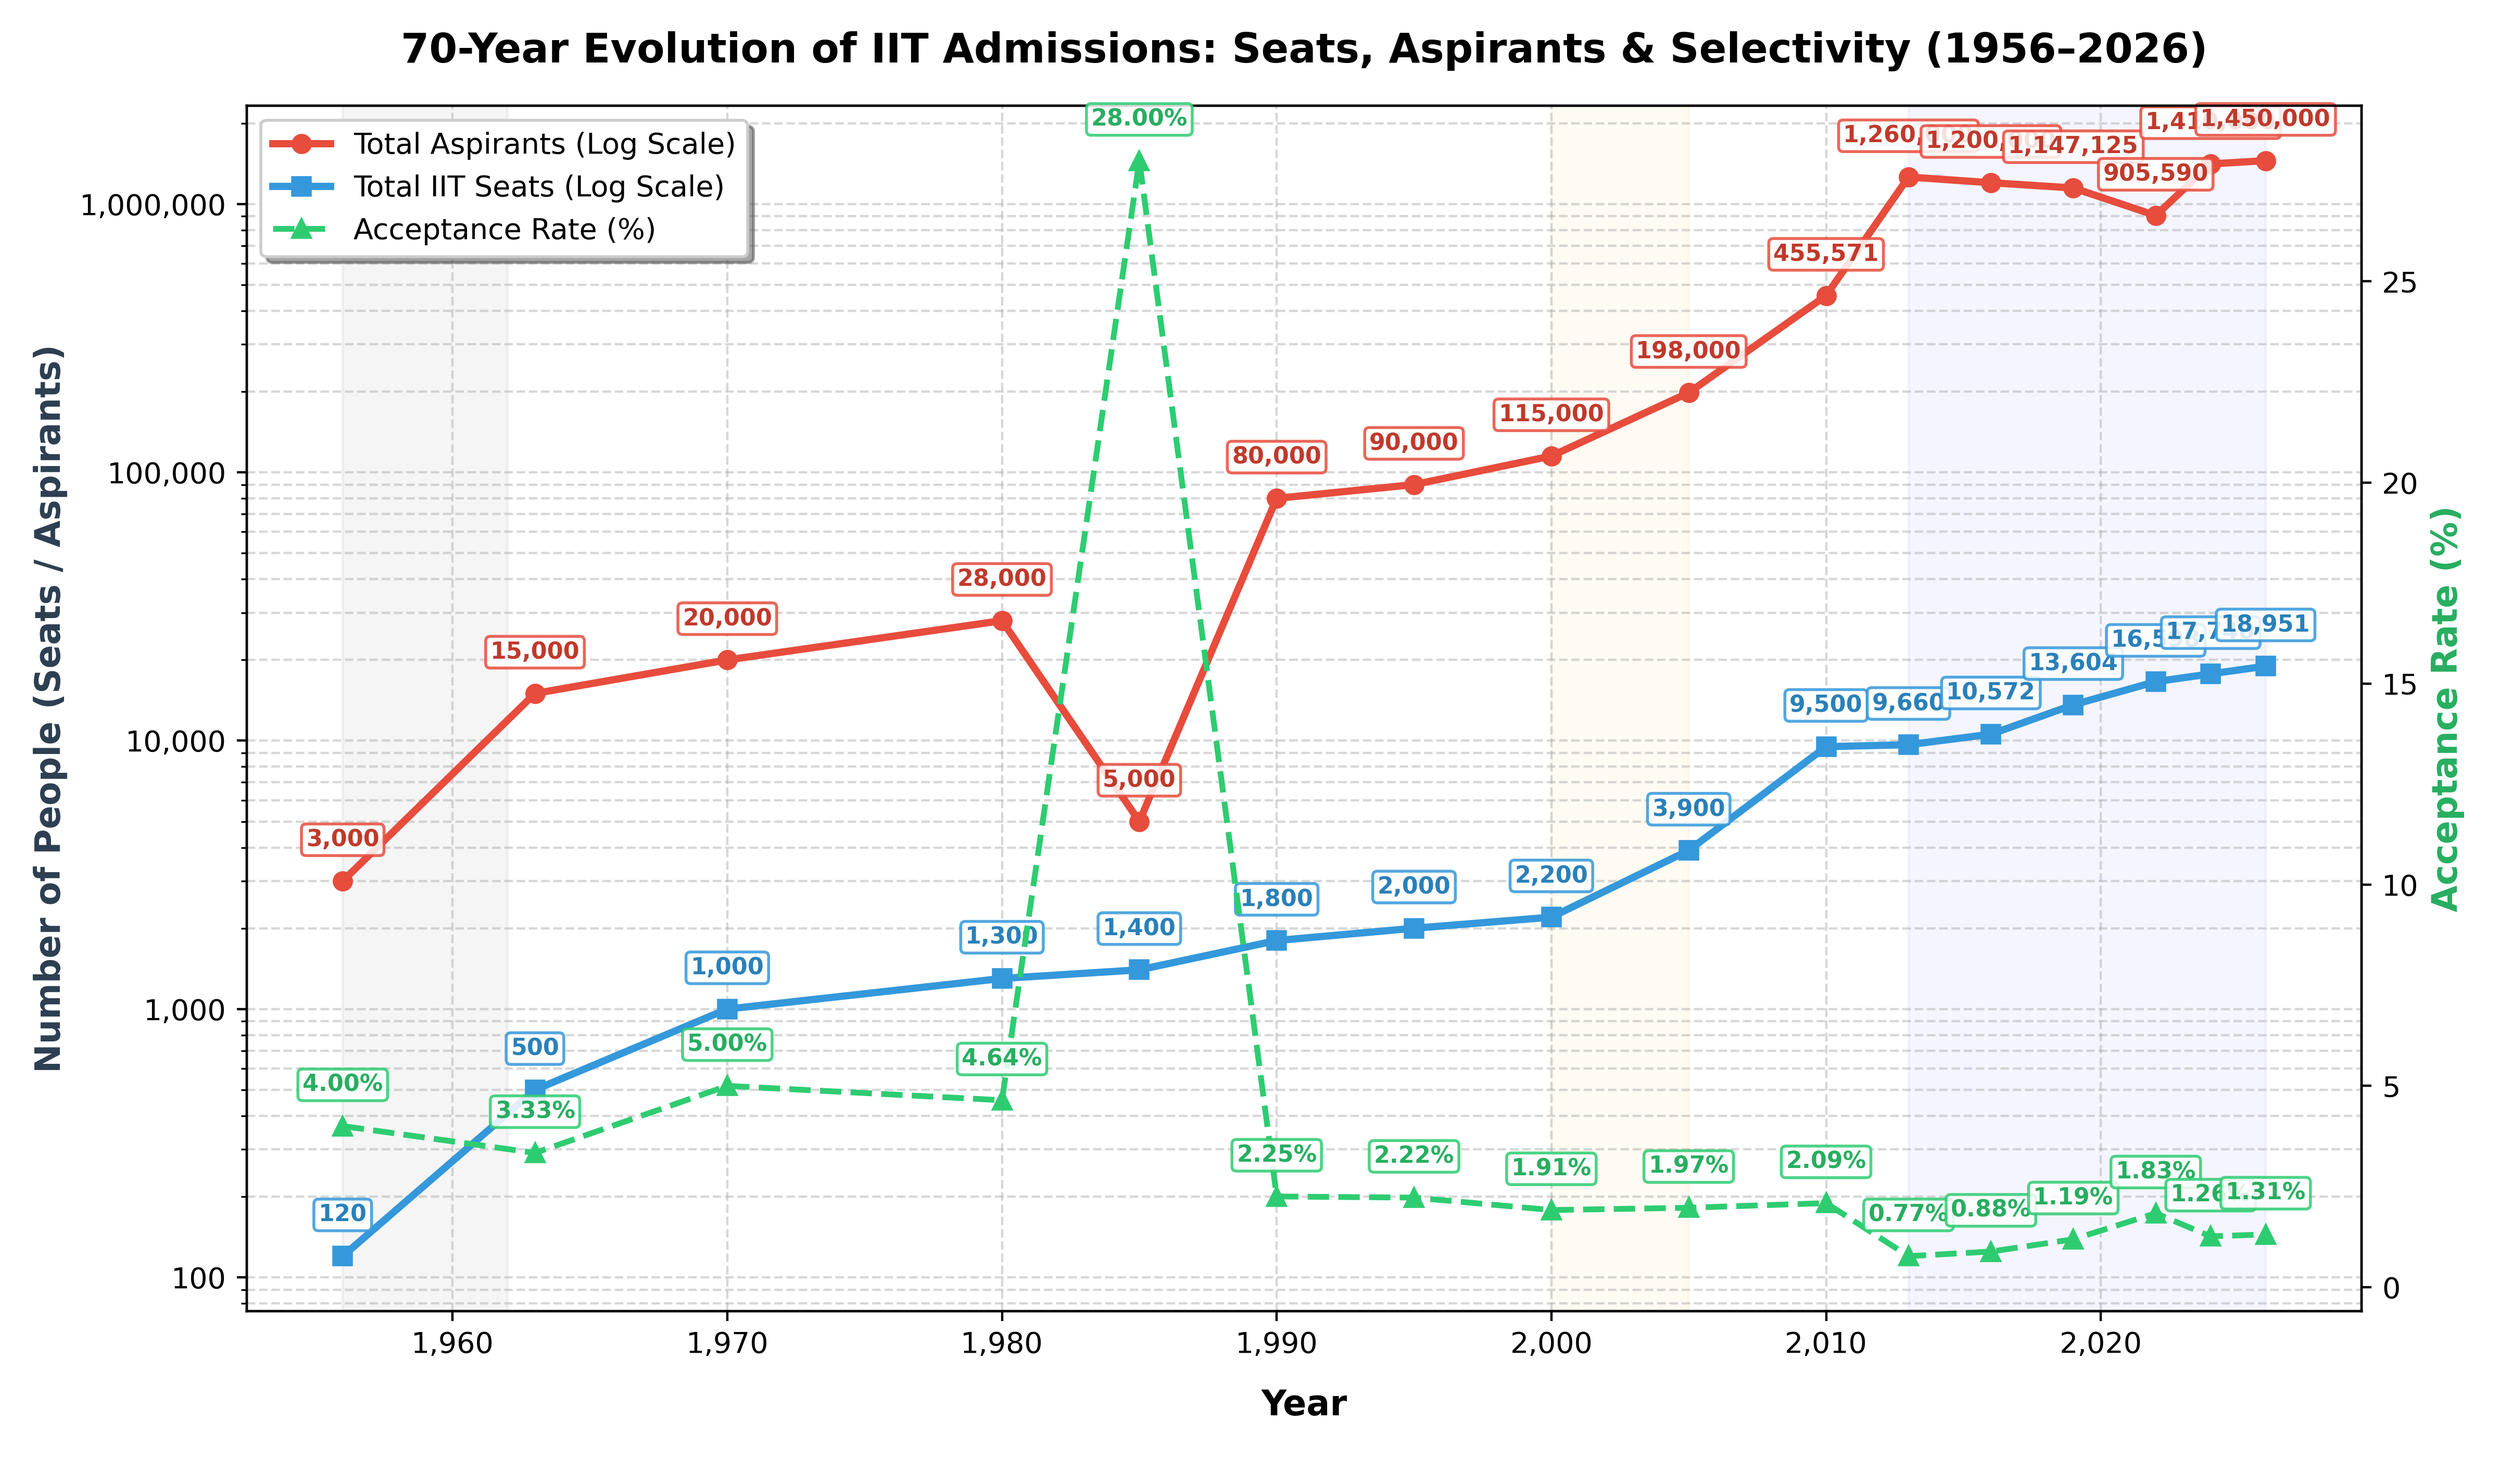
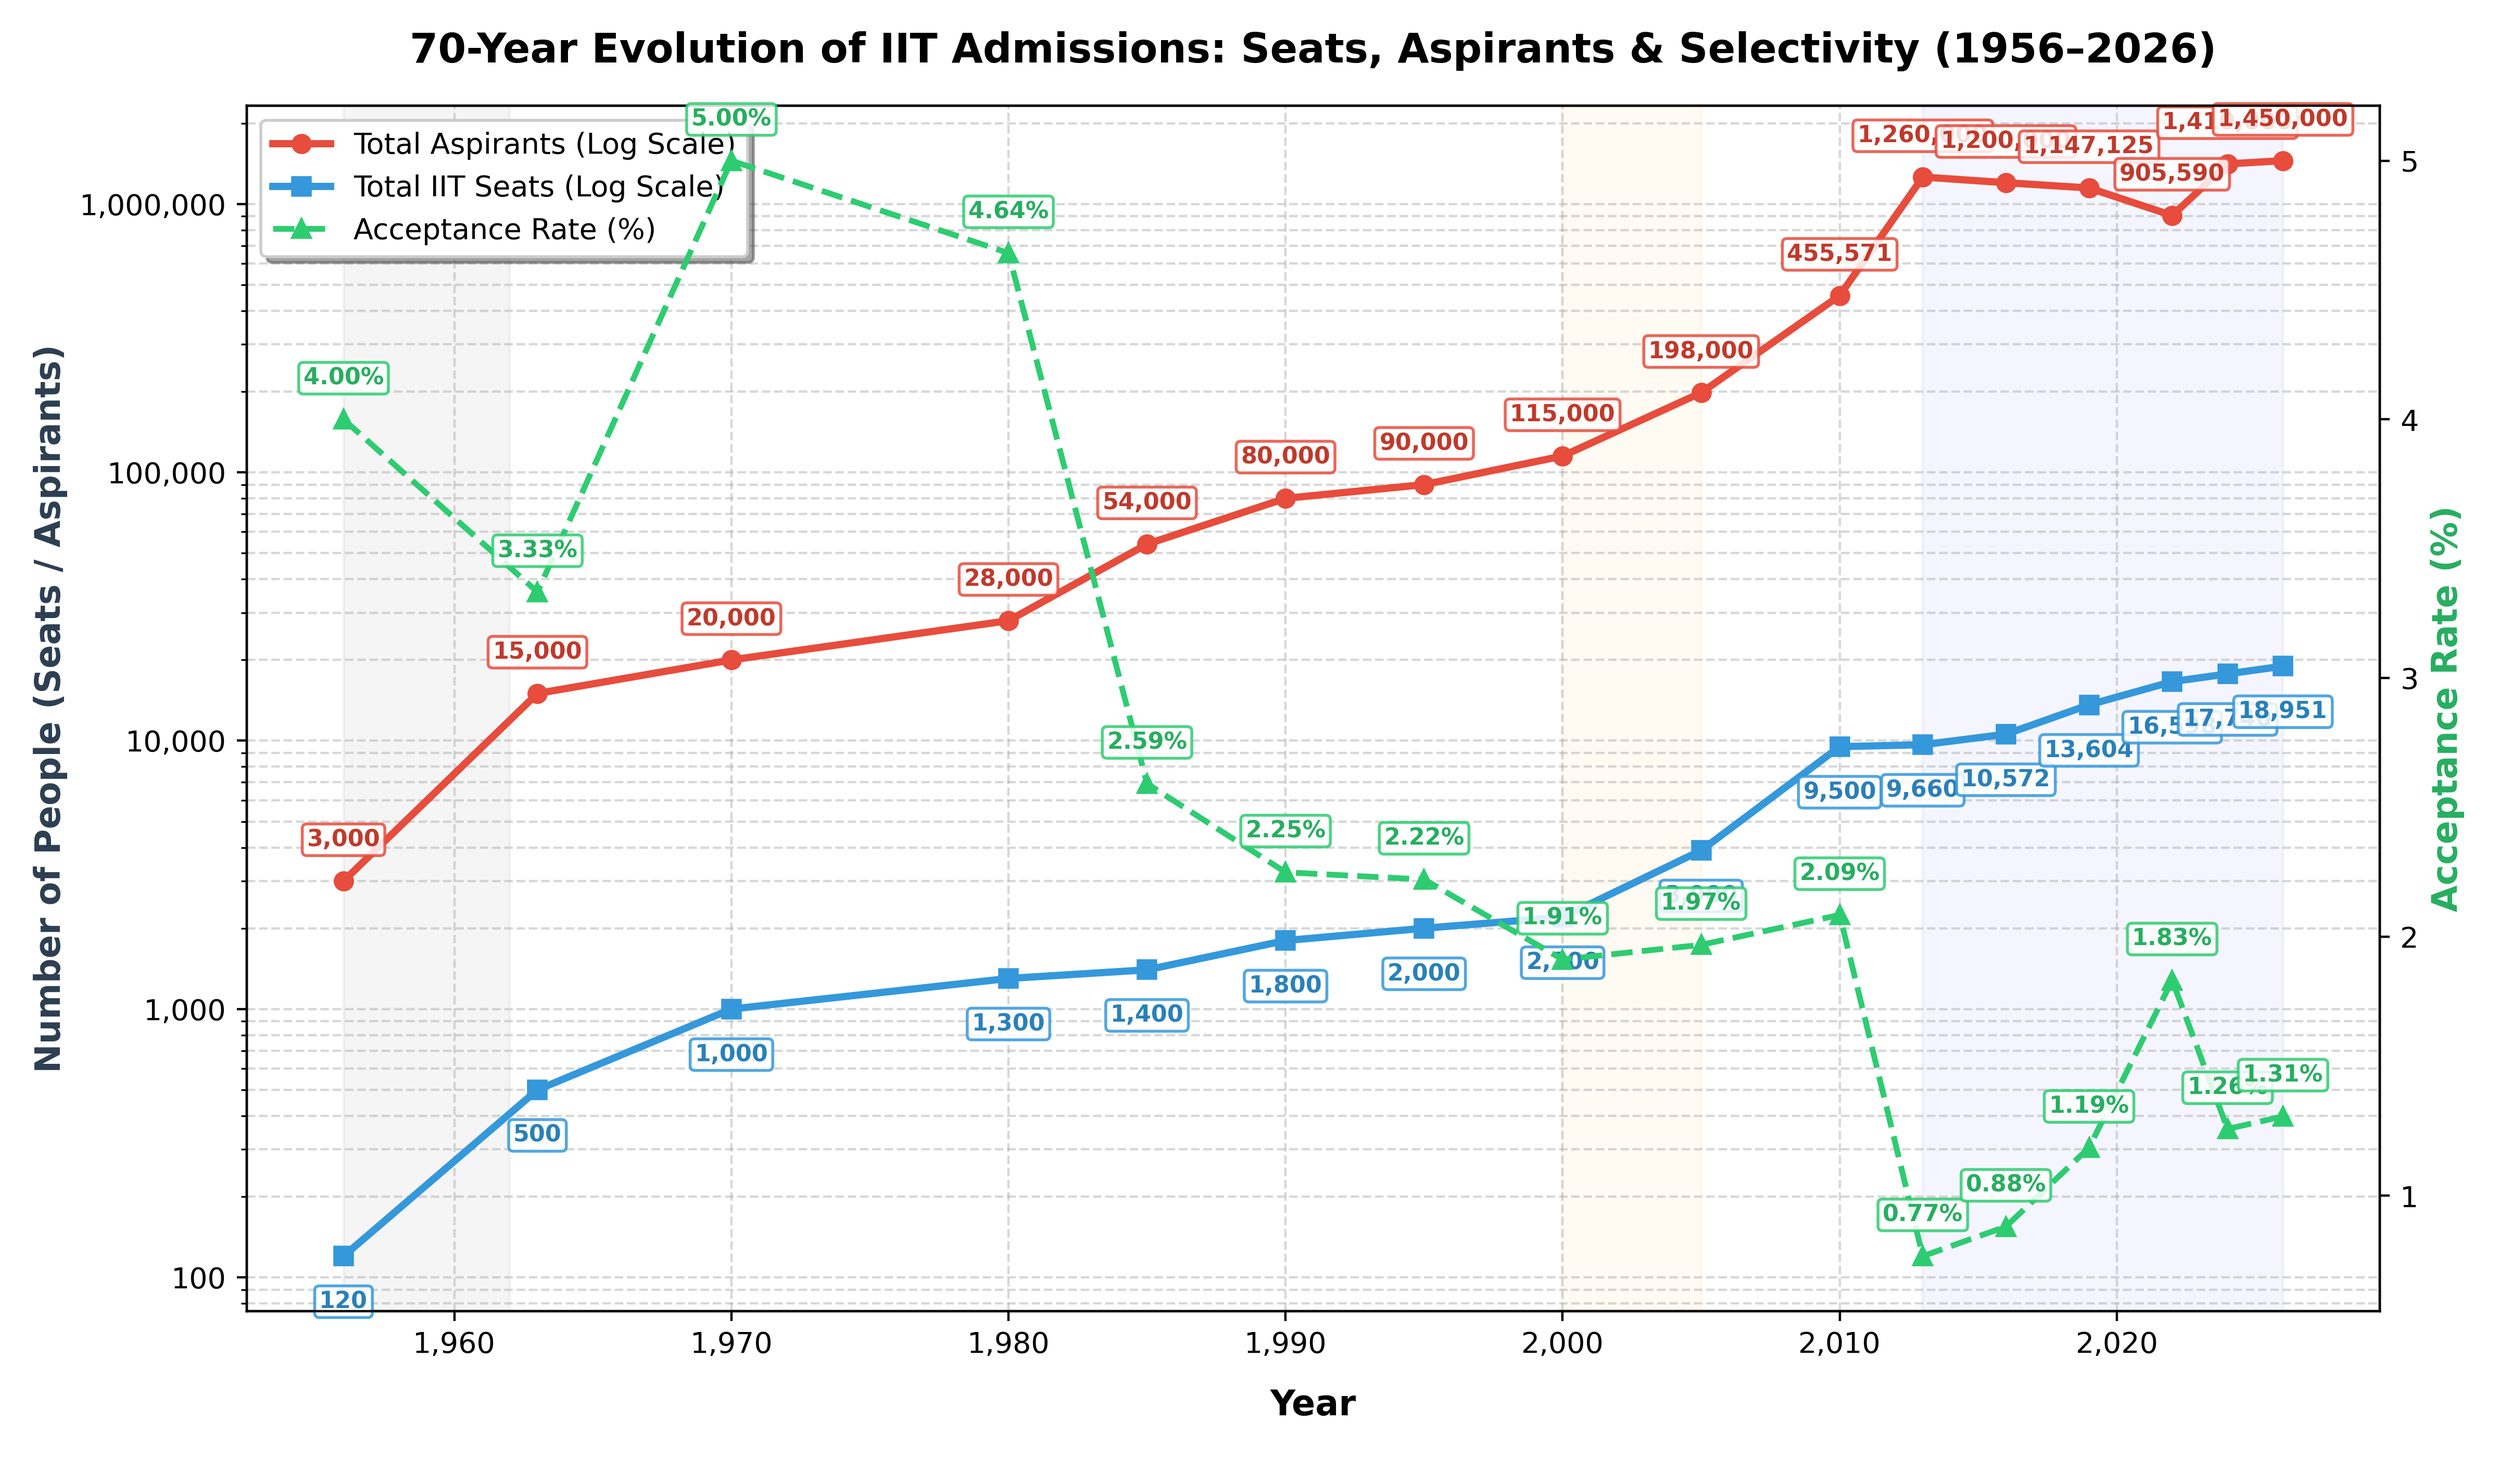
data_fix

diff --git a/JEE_Aspirants_vs_Acceptance.py b/JEE_Aspirants_vs_Acceptance.py
@@ -16,7 +16,7 @@ seats = [
 
 # Total distinct candidates who took the entrance exam
 aspirants = [
-    3000, 15000, 20000, 28000, 5000, 80000, 90000, 115000, 
+    3000, 15000, 20000, 28000, 54000, 80000, 90000, 115000, 
     198000, 455571, 1260000, 1200000, 1147125, 905590, 1410000, 1450000
 ]
 
@@ -42,7 +42,7 @@ for i, txt in enumerate(aspirants):
 
 # Annotate Seats
 for i, txt in enumerate(seats):
-    ax1.annotate(f'{txt:,}', (years[i], seats[i]), textcoords="offset points", xytext=(0,12), ha='center', fontsize=8, color='#2980b9', fontweight='bold', bbox=dict(boxstyle="round,pad=0.2", fc="white", ec='#3498db', alpha=0.85))
+    ax1.annotate(f'{txt:,}', (years[i], seats[i]), textcoords="offset points", xytext=(0,-18), ha='center', fontsize=8, color='#2980b9', fontweight='bold', bbox=dict(boxstyle="round,pad=0.2", fc="white", ec='#3498db', alpha=0.85))
 
 # Annotate Acceptance Rate
 for i, txt in enumerate(acceptance_rate):
